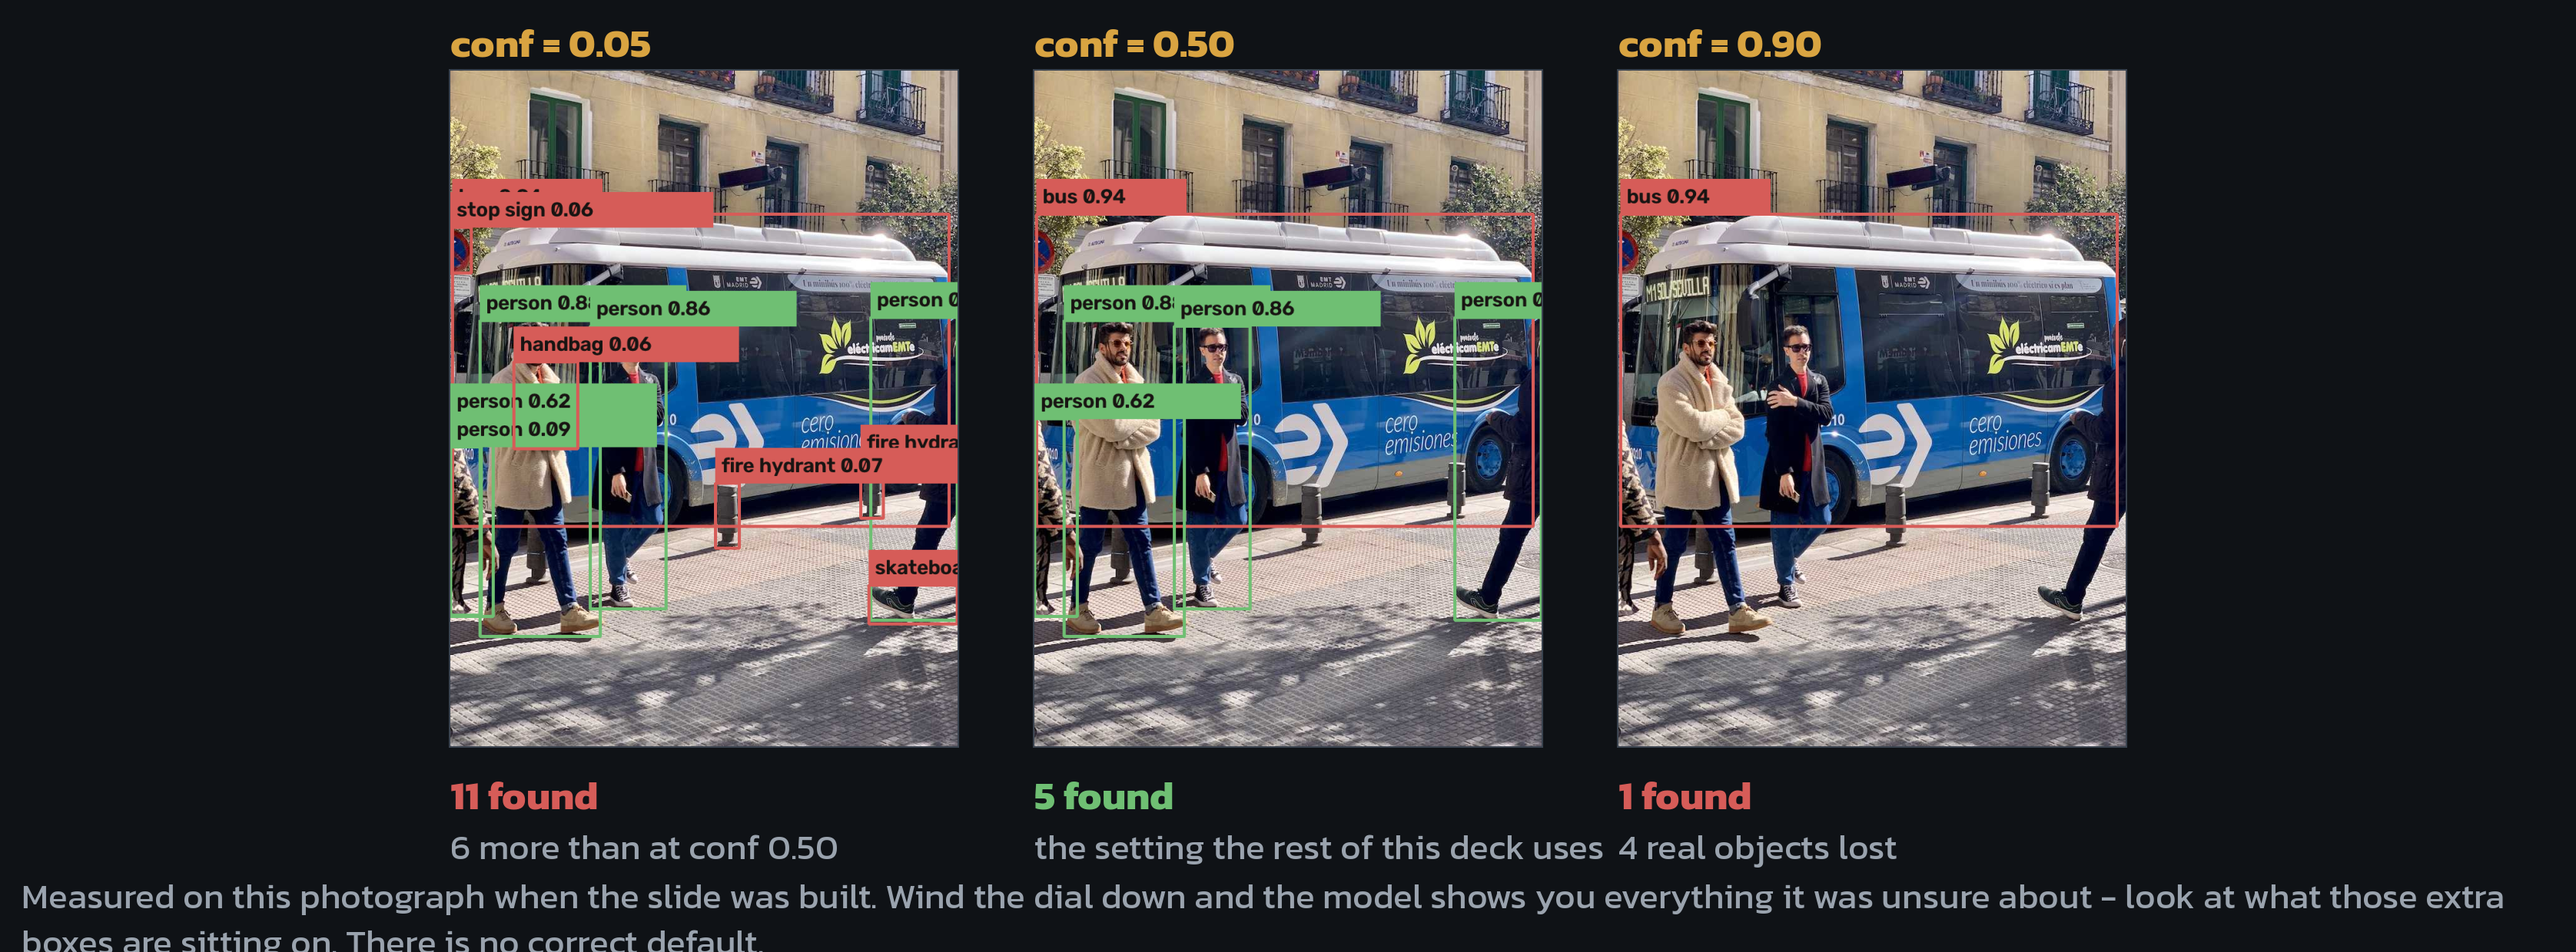
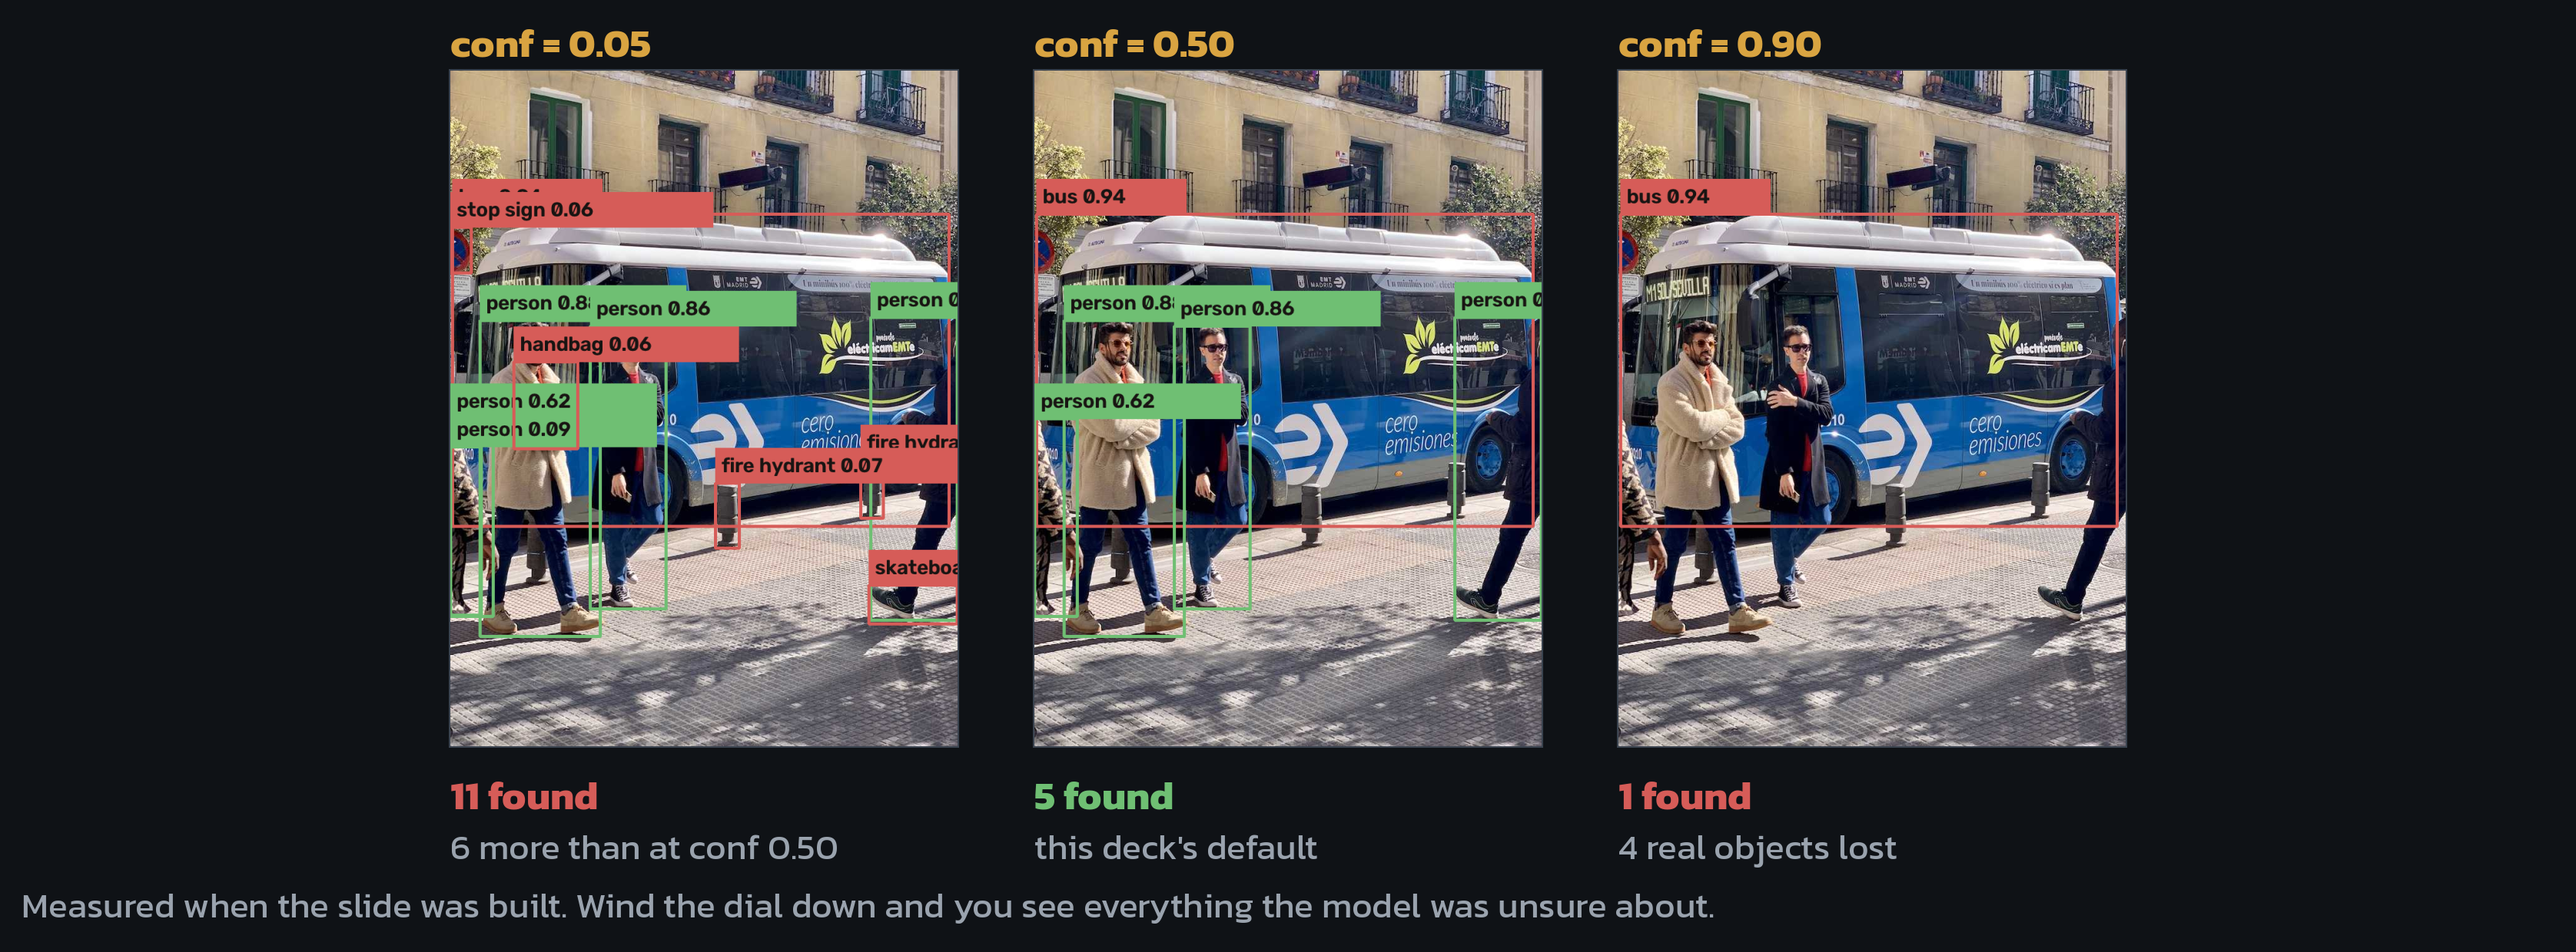
slide_assets: the conf figure's footnote was being cut off at the edge
Two lines of footnote plus a panel note no longer fit under 440px-tall
panels: the second line rendered past the bottom of the 1676x620 box and
simply vanished on the slide. The footnote is one line now, and the
middle panel's note is short enough that it does not run into the panel
beside it. The business point it was carrying moves to the slide's own
gold caption, which has room for it.

Claude-Session: https://claude.ai/code/session_01L2BgT3gVYruUssRpoAW2J5

Changed region(s): [[0.0, 0.8581, 0.9618, 1.0]]

diff --git a/slide_assets/src/ch5_panels.py b/slide_assets/src/ch5_panels.py
@@ -312,13 +312,13 @@ def fig_dials(det):
         elif n < base_n:
             note = "%d real objects lost" % (base_n - n)
         else:
-            note = "the setting the rest of this deck uses"
+            note = "this deck's default"
         d.text((x * S, (top + chh + 80) * S), note, font=f_s, fill=MUTED)
 
-    footnote(d, "Measured on this photograph when the slide was built. Wind "
-                "the dial down and the model shows you everything it was "
-                "unsure about - look at what those extra boxes are sitting "
-                "on. There is no correct default.", f_n, start=566)
+    # one line only - a second one is clipped by the bottom of the figure box
+    footnote(d, "Measured when the slide was built. Wind the dial down and "
+                "you see everything the model was unsure about.", f_n,
+             start=572)
     img.save(OUT + "ch5_dials.png")
     print("ch5_dials.png")
 
